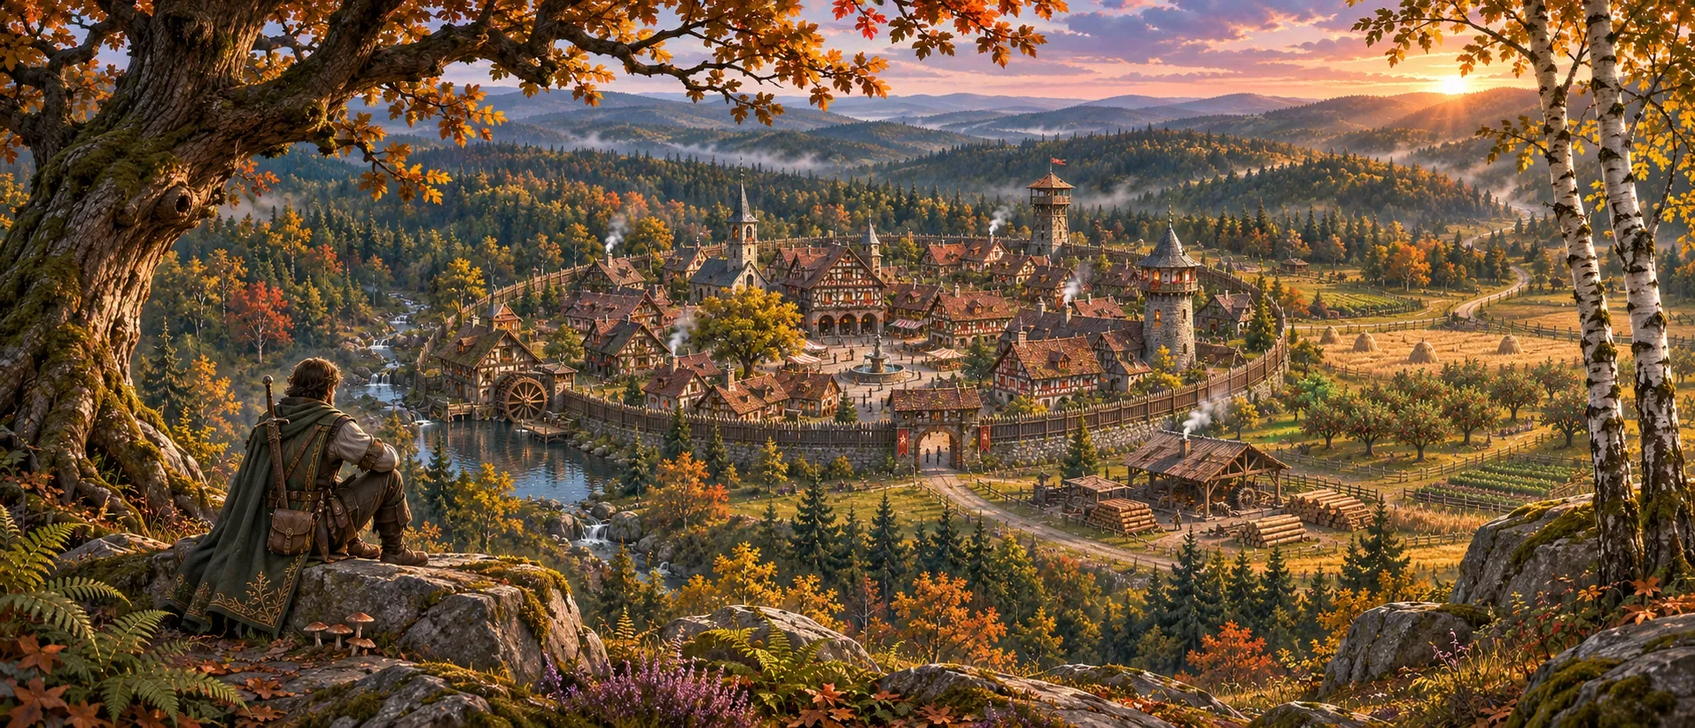
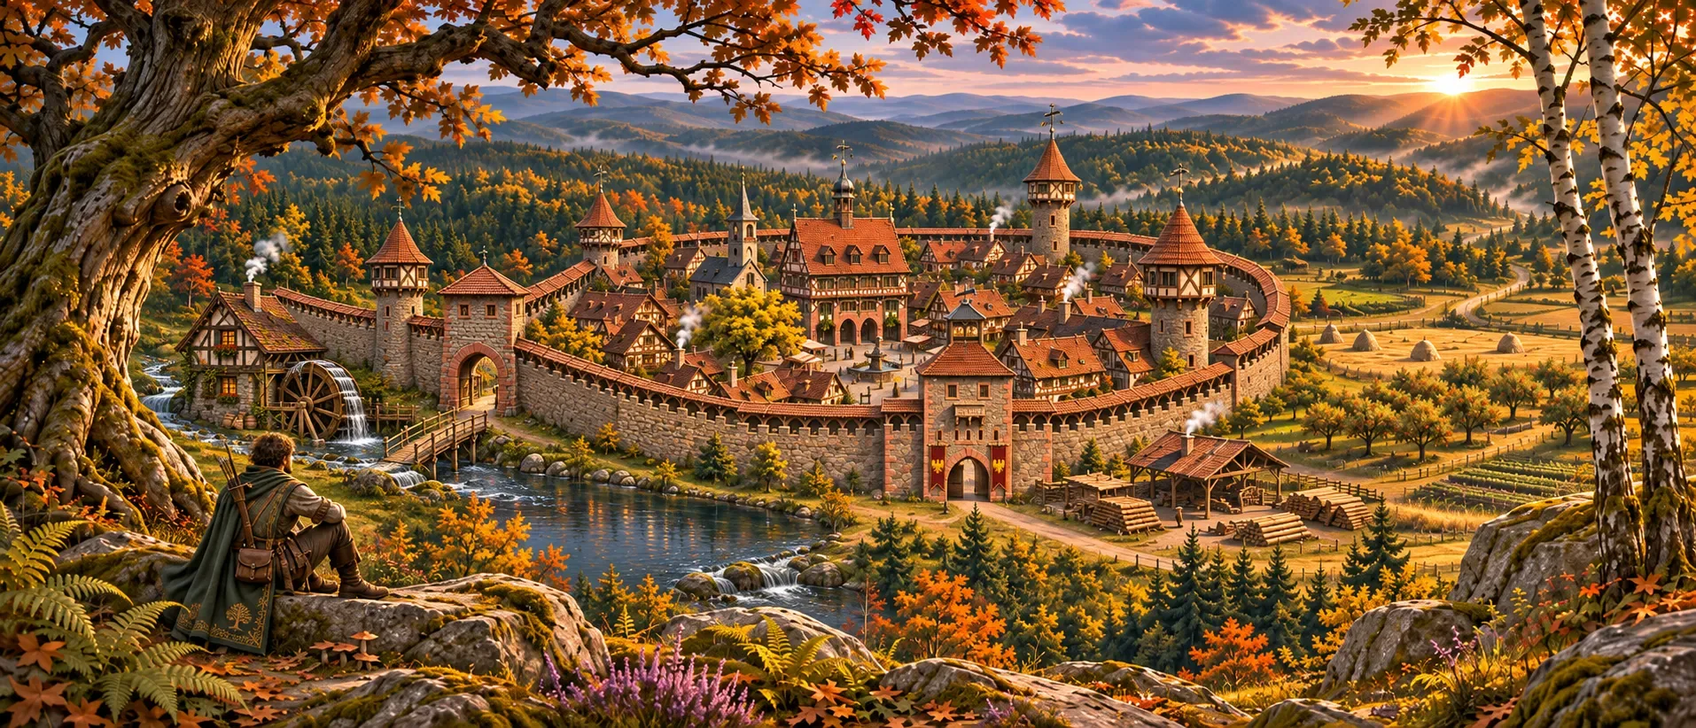
Show Hayn from the forest ridge with the West Gate and the mill

diff --git a/art/views.html b/art/views.html
@@ -41,7 +41,7 @@
 <h2>From above</h2>
 <div class="gallery gallery-2"><figure class="fig "><a class="lb" href="../assets/img/full/ACT-BE-01.webp" data-caption="Aerial from the south-east"><img src="../assets/img/thumb/ACT-BE-01.webp" alt="Aerial from the south-east" width="960" height="542" loading="lazy" decoding="async"></a><figcaption>Aerial from the south-east</figcaption></figure><figure class="fig "><a class="lb" href="../assets/img/full/ACT-BE-02.webp" data-caption="From the north-west, over the forest"><img src="../assets/img/thumb/ACT-BE-02.webp" alt="From the north-west, over the forest" width="960" height="540" loading="lazy" decoding="async"></a><figcaption>From the north-west, over the forest</figcaption></figure></div>
 <h2 style="margin-top:72px">Around the town</h2>
-<div class="gallery gallery-2 gallery-169"><figure class="fig "><a class="lb" href="../assets/img/full/VW-01.webp" data-caption="From the watchtower, looking south"><img src="../assets/img/thumb/VW-01.webp" alt="From the watchtower, looking south" width="960" height="540" loading="lazy" decoding="async"></a><figcaption>From the watchtower, looking south</figcaption></figure><figure class="fig "><a class="lb" href="../assets/img/full/VW-02.webp" data-caption="The square and the town hall"><img src="../assets/img/thumb/VW-02.webp" alt="The square and the town hall" width="960" height="540" loading="lazy" decoding="async"></a><figcaption>The square and the town hall</figcaption></figure><figure class="fig "><a class="lb" href="../assets/img/full/VW-03.webp" data-caption="Through the west postern"><img src="../assets/img/thumb/VW-03.webp" alt="Through the west postern" width="960" height="540" loading="lazy" decoding="async"></a><figcaption>Through the west postern</figcaption></figure><figure class="fig "><a class="lb" href="../assets/img/full/ACT-VW-04.webp" data-caption="The Paladin training yard"><img src="../assets/img/thumb/ACT-VW-04.webp" alt="The Paladin training yard" width="960" height="541" loading="lazy" decoding="async"></a><figcaption>The Paladin training yard</figcaption></figure><figure class="fig "><a class="lb" href="../assets/img/full/ACT-VW-05.webp" data-caption="Hunters&#x27; Lodge and archery range"><img src="../assets/img/thumb/ACT-VW-05.webp" alt="Hunters&#x27; Lodge and archery range" width="960" height="540" loading="lazy" decoding="async"></a><figcaption>Hunters' Lodge and archery range</figcaption></figure><figure class="fig "><a class="lb" href="../assets/img/full/ACT-VW-06.webp" data-caption="Herbalist&#x27;s garden and spring shrine"><img src="../assets/img/thumb/ACT-VW-06.webp" alt="Herbalist&#x27;s garden and spring shrine" width="960" height="540" loading="lazy" decoding="async"></a><figcaption>Herbalist's garden and spring shrine</figcaption></figure><figure class="fig "><a class="lb" href="../assets/img/full/VW-07.webp" data-caption="Elwyn&#x27;s tower courtyard"><img src="../assets/img/thumb/VW-07.webp" alt="Elwyn&#x27;s tower courtyard" width="720" height="960" loading="lazy" decoding="async"></a><figcaption>Elwyn's tower courtyard</figcaption></figure><figure class="fig "><a class="lb" href="../assets/img/full/VW-08.webp" data-caption="The road out of town"><img src="../assets/img/thumb/VW-08.webp" alt="The road out of town" width="960" height="540" loading="lazy" decoding="async"></a><figcaption>The road out of town</figcaption></figure><figure class="fig "><a class="lb" href="../assets/img/full/VW-09.webp" data-caption="The farmstead and fields"><img src="../assets/img/thumb/VW-09.webp" alt="The farmstead and fields" width="960" height="541" loading="lazy" decoding="async"></a><figcaption>The farmstead and fields</figcaption></figure><figure class="fig "><a class="lb" href="../assets/img/full/VW-10.webp" data-caption="From the forest ridge"><img src="../assets/img/thumb/VW-10.webp" alt="From the forest ridge" width="960" height="413" loading="lazy" decoding="async"></a><figcaption>From the forest ridge</figcaption></figure></div>
+<div class="gallery gallery-2 gallery-169"><figure class="fig "><a class="lb" href="../assets/img/full/VW-01.webp" data-caption="From the watchtower, looking south"><img src="../assets/img/thumb/VW-01.webp" alt="From the watchtower, looking south" width="960" height="540" loading="lazy" decoding="async"></a><figcaption>From the watchtower, looking south</figcaption></figure><figure class="fig "><a class="lb" href="../assets/img/full/VW-02.webp" data-caption="The square and the town hall"><img src="../assets/img/thumb/VW-02.webp" alt="The square and the town hall" width="960" height="540" loading="lazy" decoding="async"></a><figcaption>The square and the town hall</figcaption></figure><figure class="fig "><a class="lb" href="../assets/img/full/VW-03.webp" data-caption="Through the west postern"><img src="../assets/img/thumb/VW-03.webp" alt="Through the west postern" width="960" height="540" loading="lazy" decoding="async"></a><figcaption>Through the west postern</figcaption></figure><figure class="fig "><a class="lb" href="../assets/img/full/ACT-VW-04.webp" data-caption="The Paladin training yard"><img src="../assets/img/thumb/ACT-VW-04.webp" alt="The Paladin training yard" width="960" height="541" loading="lazy" decoding="async"></a><figcaption>The Paladin training yard</figcaption></figure><figure class="fig "><a class="lb" href="../assets/img/full/ACT-VW-05.webp" data-caption="Hunters&#x27; Lodge and archery range"><img src="../assets/img/thumb/ACT-VW-05.webp" alt="Hunters&#x27; Lodge and archery range" width="960" height="540" loading="lazy" decoding="async"></a><figcaption>Hunters' Lodge and archery range</figcaption></figure><figure class="fig "><a class="lb" href="../assets/img/full/ACT-VW-06.webp" data-caption="Herbalist&#x27;s garden and spring shrine"><img src="../assets/img/thumb/ACT-VW-06.webp" alt="Herbalist&#x27;s garden and spring shrine" width="960" height="540" loading="lazy" decoding="async"></a><figcaption>Herbalist's garden and spring shrine</figcaption></figure><figure class="fig "><a class="lb" href="../assets/img/full/VW-07.webp" data-caption="Elwyn&#x27;s tower courtyard"><img src="../assets/img/thumb/VW-07.webp" alt="Elwyn&#x27;s tower courtyard" width="720" height="960" loading="lazy" decoding="async"></a><figcaption>Elwyn's tower courtyard</figcaption></figure><figure class="fig "><a class="lb" href="../assets/img/full/VW-08.webp" data-caption="The road out of town"><img src="../assets/img/thumb/VW-08.webp" alt="The road out of town" width="960" height="540" loading="lazy" decoding="async"></a><figcaption>The road out of town</figcaption></figure><figure class="fig "><a class="lb" href="../assets/img/full/VW-09.webp" data-caption="The farmstead and fields"><img src="../assets/img/thumb/VW-09.webp" alt="The farmstead and fields" width="960" height="541" loading="lazy" decoding="async"></a><figcaption>The farmstead and fields</figcaption></figure><figure class="fig "><a class="lb" href="../assets/img/full/VW-10.webp" data-caption="From the forest ridge"><img src="../assets/img/thumb/VW-10.webp" alt="From the forest ridge" width="960" height="412" loading="lazy" decoding="async"></a><figcaption>From the forest ridge</figcaption></figure></div>
 <h2 style="margin-top:72px">Maps</h2>
 <div class="gallery gallery-2"><figure class="fig "><a class="lb" href="../assets/img/full/TD-02.webp" data-caption="Painted map of Hayn"><img src="../assets/img/thumb/TD-02.webp" alt="Painted map of Hayn" width="960" height="808" loading="lazy" decoding="async"></a><figcaption>Painted map of Hayn</figcaption></figure><figure class="fig "><a class="lb" href="../assets/img/full/TD-04.webp" data-caption="Painted map of the Wolfwood"><img src="../assets/img/thumb/TD-04.webp" alt="Painted map of the Wolfwood" width="960" height="960" loading="lazy" decoding="async"></a><figcaption>Painted map of the Wolfwood</figcaption></figure><figure class="fig "><a class="lb" href="../assets/img/full/TD-05.webp" data-caption="Layout grid of Hayn"><img src="../assets/img/thumb/TD-05.webp" alt="Layout grid of Hayn" width="864" height="960" loading="lazy" decoding="async"></a><figcaption>Layout grid of Hayn</figcaption></figure></div></section>
 <div class="wrap"><nav class="pager" aria-label="Page"><a class="prev" href="../art/index.html"><small>Previous</small>Art</a><a class="next" href="../art/interiors.html"><small>Next</small>Interiors</a></nav></div>

diff --git a/de/art/views.html b/de/art/views.html
@@ -41,7 +41,7 @@
 <h2>Von oben</h2>
 <div class="gallery gallery-2"><figure class="fig "><a class="lb" href="../../assets/img/full/ACT-BE-01.webp" data-caption="Luftbild von Südosten"><img src="../../assets/img/thumb/ACT-BE-01.webp" alt="Luftbild von Südosten" width="960" height="542" loading="lazy" decoding="async"></a><figcaption>Luftbild von Südosten</figcaption></figure><figure class="fig "><a class="lb" href="../../assets/img/full/ACT-BE-02.webp" data-caption="Von Nordwesten, über den Wald"><img src="../../assets/img/thumb/ACT-BE-02.webp" alt="Von Nordwesten, über den Wald" width="960" height="540" loading="lazy" decoding="async"></a><figcaption>Von Nordwesten, über den Wald</figcaption></figure></div>
 <h2 style="margin-top:72px">Rund um die Stadt</h2>
-<div class="gallery gallery-2 gallery-169"><figure class="fig "><a class="lb" href="../../assets/img/full/VW-01.webp" data-caption="Vom Wachturm nach Süden"><img src="../../assets/img/thumb/VW-01.webp" alt="Vom Wachturm nach Süden" width="960" height="540" loading="lazy" decoding="async"></a><figcaption>Vom Wachturm nach Süden</figcaption></figure><figure class="fig "><a class="lb" href="../../assets/img/full/VW-02.webp" data-caption="Der Platz und das Rathaus"><img src="../../assets/img/thumb/VW-02.webp" alt="Der Platz und das Rathaus" width="960" height="540" loading="lazy" decoding="async"></a><figcaption>Der Platz und das Rathaus</figcaption></figure><figure class="fig "><a class="lb" href="../../assets/img/full/VW-03.webp" data-caption="Durch die Westpforte"><img src="../../assets/img/thumb/VW-03.webp" alt="Durch die Westpforte" width="960" height="540" loading="lazy" decoding="async"></a><figcaption>Durch die Westpforte</figcaption></figure><figure class="fig "><a class="lb" href="../../assets/img/full/ACT-VW-04.webp" data-caption="Der Paladin-Übungsplatz"><img src="../../assets/img/thumb/ACT-VW-04.webp" alt="Der Paladin-Übungsplatz" width="960" height="541" loading="lazy" decoding="async"></a><figcaption>Der Paladin-Übungsplatz</figcaption></figure><figure class="fig "><a class="lb" href="../../assets/img/full/ACT-VW-05.webp" data-caption="Jägerhütte und Bogenschießplatz"><img src="../../assets/img/thumb/ACT-VW-05.webp" alt="Jägerhütte und Bogenschießplatz" width="960" height="540" loading="lazy" decoding="async"></a><figcaption>Jägerhütte und Bogenschießplatz</figcaption></figure><figure class="fig "><a class="lb" href="../../assets/img/full/ACT-VW-06.webp" data-caption="Kräutergarten und Quellschrein"><img src="../../assets/img/thumb/ACT-VW-06.webp" alt="Kräutergarten und Quellschrein" width="960" height="540" loading="lazy" decoding="async"></a><figcaption>Kräutergarten und Quellschrein</figcaption></figure><figure class="fig "><a class="lb" href="../../assets/img/full/VW-07.webp" data-caption="Der Hof von Elwyns Turm"><img src="../../assets/img/thumb/VW-07.webp" alt="Der Hof von Elwyns Turm" width="720" height="960" loading="lazy" decoding="async"></a><figcaption>Der Hof von Elwyns Turm</figcaption></figure><figure class="fig "><a class="lb" href="../../assets/img/full/VW-08.webp" data-caption="Die Straße aus der Stadt"><img src="../../assets/img/thumb/VW-08.webp" alt="Die Straße aus der Stadt" width="960" height="540" loading="lazy" decoding="async"></a><figcaption>Die Straße aus der Stadt</figcaption></figure><figure class="fig "><a class="lb" href="../../assets/img/full/VW-09.webp" data-caption="Der Bauernhof und die Felder"><img src="../../assets/img/thumb/VW-09.webp" alt="Der Bauernhof und die Felder" width="960" height="541" loading="lazy" decoding="async"></a><figcaption>Der Bauernhof und die Felder</figcaption></figure><figure class="fig "><a class="lb" href="../../assets/img/full/VW-10.webp" data-caption="Vom Waldkamm"><img src="../../assets/img/thumb/VW-10.webp" alt="Vom Waldkamm" width="960" height="413" loading="lazy" decoding="async"></a><figcaption>Vom Waldkamm</figcaption></figure></div>
+<div class="gallery gallery-2 gallery-169"><figure class="fig "><a class="lb" href="../../assets/img/full/VW-01.webp" data-caption="Vom Wachturm nach Süden"><img src="../../assets/img/thumb/VW-01.webp" alt="Vom Wachturm nach Süden" width="960" height="540" loading="lazy" decoding="async"></a><figcaption>Vom Wachturm nach Süden</figcaption></figure><figure class="fig "><a class="lb" href="../../assets/img/full/VW-02.webp" data-caption="Der Platz und das Rathaus"><img src="../../assets/img/thumb/VW-02.webp" alt="Der Platz und das Rathaus" width="960" height="540" loading="lazy" decoding="async"></a><figcaption>Der Platz und das Rathaus</figcaption></figure><figure class="fig "><a class="lb" href="../../assets/img/full/VW-03.webp" data-caption="Durch die Westpforte"><img src="../../assets/img/thumb/VW-03.webp" alt="Durch die Westpforte" width="960" height="540" loading="lazy" decoding="async"></a><figcaption>Durch die Westpforte</figcaption></figure><figure class="fig "><a class="lb" href="../../assets/img/full/ACT-VW-04.webp" data-caption="Der Paladin-Übungsplatz"><img src="../../assets/img/thumb/ACT-VW-04.webp" alt="Der Paladin-Übungsplatz" width="960" height="541" loading="lazy" decoding="async"></a><figcaption>Der Paladin-Übungsplatz</figcaption></figure><figure class="fig "><a class="lb" href="../../assets/img/full/ACT-VW-05.webp" data-caption="Jägerhütte und Bogenschießplatz"><img src="../../assets/img/thumb/ACT-VW-05.webp" alt="Jägerhütte und Bogenschießplatz" width="960" height="540" loading="lazy" decoding="async"></a><figcaption>Jägerhütte und Bogenschießplatz</figcaption></figure><figure class="fig "><a class="lb" href="../../assets/img/full/ACT-VW-06.webp" data-caption="Kräutergarten und Quellschrein"><img src="../../assets/img/thumb/ACT-VW-06.webp" alt="Kräutergarten und Quellschrein" width="960" height="540" loading="lazy" decoding="async"></a><figcaption>Kräutergarten und Quellschrein</figcaption></figure><figure class="fig "><a class="lb" href="../../assets/img/full/VW-07.webp" data-caption="Der Hof von Elwyns Turm"><img src="../../assets/img/thumb/VW-07.webp" alt="Der Hof von Elwyns Turm" width="720" height="960" loading="lazy" decoding="async"></a><figcaption>Der Hof von Elwyns Turm</figcaption></figure><figure class="fig "><a class="lb" href="../../assets/img/full/VW-08.webp" data-caption="Die Straße aus der Stadt"><img src="../../assets/img/thumb/VW-08.webp" alt="Die Straße aus der Stadt" width="960" height="540" loading="lazy" decoding="async"></a><figcaption>Die Straße aus der Stadt</figcaption></figure><figure class="fig "><a class="lb" href="../../assets/img/full/VW-09.webp" data-caption="Der Bauernhof und die Felder"><img src="../../assets/img/thumb/VW-09.webp" alt="Der Bauernhof und die Felder" width="960" height="541" loading="lazy" decoding="async"></a><figcaption>Der Bauernhof und die Felder</figcaption></figure><figure class="fig "><a class="lb" href="../../assets/img/full/VW-10.webp" data-caption="Vom Waldkamm"><img src="../../assets/img/thumb/VW-10.webp" alt="Vom Waldkamm" width="960" height="412" loading="lazy" decoding="async"></a><figcaption>Vom Waldkamm</figcaption></figure></div>
 <h2 style="margin-top:72px">Karten</h2>
 <div class="gallery gallery-2"><figure class="fig "><a class="lb" href="../../assets/img/full/TD-02.webp" data-caption="Gemalte Karte von Hayn"><img src="../../assets/img/thumb/TD-02.webp" alt="Gemalte Karte von Hayn" width="960" height="808" loading="lazy" decoding="async"></a><figcaption>Gemalte Karte von Hayn</figcaption></figure><figure class="fig "><a class="lb" href="../../assets/img/full/TD-04.webp" data-caption="Gemalte Karte des Wolfsforsts"><img src="../../assets/img/thumb/TD-04.webp" alt="Gemalte Karte des Wolfsforsts" width="960" height="960" loading="lazy" decoding="async"></a><figcaption>Gemalte Karte des Wolfsforsts</figcaption></figure><figure class="fig "><a class="lb" href="../../assets/img/full/TD-05.webp" data-caption="Lageplan von Hayn mit Raster"><img src="../../assets/img/thumb/TD-05.webp" alt="Lageplan von Hayn mit Raster" width="864" height="960" loading="lazy" decoding="async"></a><figcaption>Lageplan von Hayn mit Raster</figcaption></figure></div></section>
 <div class="wrap"><nav class="pager" aria-label="Page"><a class="prev" href="../../de/art/index.html"><small>Zurück</small>Kunst</a><a class="next" href="../../de/art/interiors.html"><small>Weiter</small>Innenräume</a></nav></div>

diff --git a/de/world/wolfwood.html b/de/world/wolfwood.html
@@ -43,7 +43,7 @@
 <h2 style="margin-top:72px">Zone für Zone</h2>
 <div class="table-wrap"><table class="data-table "><thead><tr><th scope="col">Zone</th><th scope="col">Name</th><th scope="col">Von der Stadt aus</th><th scope="col">Was dort ist</th></tr></thead><tbody><tr><th scope="row">F1</th><td>Waldrand & Wiese</td><td>0–100 m</td><td>Birken, Haseln, Brombeeren und hohes Gras. Kräuter zum Sammeln, Rehe und Hasen.</td></tr><tr><th scope="row">F2</th><td>Holzfällersaum</td><td>100–250 m</td><td>Baumstümpfe, Holzstapel und ein Holzfällerunterstand. Die ersten Wölfe.</td></tr><tr><th scope="row">F3</th><td>Buchen-Eichen-Wald</td><td>250–500 m</td><td>Silberne Buchenstämme wie Säulen, alte Eichen, Lichtstrahlen. Wolfsrudel und Wildschweine.</td></tr><tr><th scope="row">F4</th><td>Bachschlucht</td><td>Quer durch F3</td><td>Ein felsiger Bach, ein kleiner Wasserfall und eine Brücke aus einem umgestürzten Baum.</td></tr><tr><th scope="row">F5</th><td>Die alte Lichtung</td><td>~400 m nördlich</td><td>Ein Ring stehender Steine, eine uralte Eiche, leuchtende Funken in der Nacht.</td></tr><tr><th scope="row">F6</th><td>Fichten-Tannen-Tiefwald</td><td>500–900 m</td><td>Dunkle Fichten, Nadelboden, Totholz und wenig Licht. Dunkle Wölfe.</td></tr><tr><th scope="row">F7</th><td>Der Wolfsbau</td><td>~700 m</td><td>Ein Felsvorsprung mit Höhleneingang, Knochen und abgenagten Geweihen. Der Alpha.</td></tr><tr><th scope="row">F8</th><td>Verfallener Wachturm</td><td>~600 m nordwestlich</td><td>Ein eingestürzter, überwucherter Steinturm. Eine Aussicht und eine verlorene Tasche.</td></tr><tr><th scope="row">F9</th><td>Hochsitz & Lager</td><td>~350 m</td><td>Ein Hochsitz, ein verlassenes Lagerfeuer, ein Unterstand.</td></tr></tbody></table></div>
 <h2 style="margin-top:72px">Bilder aus dem Wald</h2>
-<div class="gallery gallery-2"><figure class="fig "><a class="lb" href="../../assets/img/full/KA-05.webp" data-caption="Wölfe am Waldrand in der Dämmerung"><img src="../../assets/img/thumb/KA-05.webp" alt="Wölfe am Waldrand in der Dämmerung" width="960" height="541" loading="lazy" decoding="async"></a><figcaption>Wölfe am Waldrand in der Dämmerung</figcaption></figure><figure class="fig "><a class="lb" href="../../assets/img/full/KA-07.webp" data-caption="Der Wolfsbau"><img src="../../assets/img/thumb/KA-07.webp" alt="Der Wolfsbau" width="960" height="540" loading="lazy" decoding="async"></a><figcaption>Der Wolfsbau</figcaption></figure><figure class="fig "><a class="lb" href="../../assets/img/full/ACT-BE-02.webp" data-caption="Von Nordwesten über den Wald zur Stadt"><img src="../../assets/img/thumb/ACT-BE-02.webp" alt="Von Nordwesten über den Wald zur Stadt" width="960" height="540" loading="lazy" decoding="async"></a><figcaption>Von Nordwesten über den Wald zur Stadt</figcaption></figure><figure class="fig "><a class="lb" href="../../assets/img/full/VW-10.webp" data-caption="Vom Waldkamm aus"><img src="../../assets/img/thumb/VW-10.webp" alt="Vom Waldkamm aus" width="960" height="413" loading="lazy" decoding="async"></a><figcaption>Vom Waldkamm aus</figcaption></figure></div></section>
+<div class="gallery gallery-2"><figure class="fig "><a class="lb" href="../../assets/img/full/KA-05.webp" data-caption="Wölfe am Waldrand in der Dämmerung"><img src="../../assets/img/thumb/KA-05.webp" alt="Wölfe am Waldrand in der Dämmerung" width="960" height="541" loading="lazy" decoding="async"></a><figcaption>Wölfe am Waldrand in der Dämmerung</figcaption></figure><figure class="fig "><a class="lb" href="../../assets/img/full/KA-07.webp" data-caption="Der Wolfsbau"><img src="../../assets/img/thumb/KA-07.webp" alt="Der Wolfsbau" width="960" height="540" loading="lazy" decoding="async"></a><figcaption>Der Wolfsbau</figcaption></figure><figure class="fig "><a class="lb" href="../../assets/img/full/ACT-BE-02.webp" data-caption="Von Nordwesten über den Wald zur Stadt"><img src="../../assets/img/thumb/ACT-BE-02.webp" alt="Von Nordwesten über den Wald zur Stadt" width="960" height="540" loading="lazy" decoding="async"></a><figcaption>Von Nordwesten über den Wald zur Stadt</figcaption></figure><figure class="fig "><a class="lb" href="../../assets/img/full/VW-10.webp" data-caption="Vom Waldkamm aus"><img src="../../assets/img/thumb/VW-10.webp" alt="Vom Waldkamm aus" width="960" height="412" loading="lazy" decoding="async"></a><figcaption>Vom Waldkamm aus</figcaption></figure></div></section>
 <div class="wrap"><nav class="pager" aria-label="Page"><a class="prev" href="../../de/world/hayn.html"><small>Zurück</small>Hayn</a><a class="next" href="../../de/world/road.html"><small>Weiter</small>Straße nach Frankfurt</a></nav></div>
 </main>
 

diff --git a/world/wolfwood.html b/world/wolfwood.html
@@ -43,7 +43,7 @@
 <h2 style="margin-top:72px">Zone by zone</h2>
 <div class="table-wrap"><table class="data-table "><thead><tr><th scope="col">Zone</th><th scope="col">Name</th><th scope="col">From the town</th><th scope="col">What is there</th></tr></thead><tbody><tr><th scope="row">F1</th><td>Forest edge & meadow</td><td>0–100 m</td><td>Birch, hazel, brambles and tall grass. Herbs to gather, deer and rabbits.</td></tr><tr><th scope="row">F2</th><td>Woodcutters' fringe</td><td>100–250 m</td><td>Stumps, log piles and a woodcutter's shelter. The first wolves.</td></tr><tr><th scope="row">F3</th><td>Beech-oak forest</td><td>250–500 m</td><td>Silver beech trunks like pillars, old oaks, light shafts. Wolf packs and boar.</td></tr><tr><th scope="row">F4</th><td>Stream gorge</td><td>Crossing F3</td><td>A rocky stream, a small waterfall and a fallen-tree bridge.</td></tr><tr><th scope="row">F5</th><td>The old glade</td><td>~400 m north</td><td>A ring of standing stones, an ancient oak, glowing motes at night.</td></tr><tr><th scope="row">F6</th><td>Spruce-fir deep wood</td><td>500–900 m</td><td>Dark spruce, needle floor, deadfall and little light. Dark wolves.</td></tr><tr><th scope="row">F7</th><td>The wolf den</td><td>~700 m</td><td>A rock outcrop with a cave mouth, bones and gnawed antlers. The Alpha.</td></tr><tr><th scope="row">F8</th><td>Ruined watchtower</td><td>~600 m north-west</td><td>A collapsed stone tower, overgrown. A view, and a lost satchel.</td></tr><tr><th scope="row">F9</th><td>Hunter's blind & camp</td><td>~350 m</td><td>A raised hunting stand, an abandoned campfire, a lean-to.</td></tr></tbody></table></div>
 <h2 style="margin-top:72px">Pictures from the forest</h2>
-<div class="gallery gallery-2"><figure class="fig "><a class="lb" href="../assets/img/full/KA-05.webp" data-caption="Wolves at the forest edge, at dusk"><img src="../assets/img/thumb/KA-05.webp" alt="Wolves at the forest edge, at dusk" width="960" height="541" loading="lazy" decoding="async"></a><figcaption>Wolves at the forest edge, at dusk</figcaption></figure><figure class="fig "><a class="lb" href="../assets/img/full/KA-07.webp" data-caption="The wolf den"><img src="../assets/img/thumb/KA-07.webp" alt="The wolf den" width="960" height="540" loading="lazy" decoding="async"></a><figcaption>The wolf den</figcaption></figure><figure class="fig "><a class="lb" href="../assets/img/full/ACT-BE-02.webp" data-caption="From the north-west, over the forest to the town"><img src="../assets/img/thumb/ACT-BE-02.webp" alt="From the north-west, over the forest to the town" width="960" height="540" loading="lazy" decoding="async"></a><figcaption>From the north-west, over the forest to the town</figcaption></figure><figure class="fig "><a class="lb" href="../assets/img/full/VW-10.webp" data-caption="From the forest ridge"><img src="../assets/img/thumb/VW-10.webp" alt="From the forest ridge" width="960" height="413" loading="lazy" decoding="async"></a><figcaption>From the forest ridge</figcaption></figure></div></section>
+<div class="gallery gallery-2"><figure class="fig "><a class="lb" href="../assets/img/full/KA-05.webp" data-caption="Wolves at the forest edge, at dusk"><img src="../assets/img/thumb/KA-05.webp" alt="Wolves at the forest edge, at dusk" width="960" height="541" loading="lazy" decoding="async"></a><figcaption>Wolves at the forest edge, at dusk</figcaption></figure><figure class="fig "><a class="lb" href="../assets/img/full/KA-07.webp" data-caption="The wolf den"><img src="../assets/img/thumb/KA-07.webp" alt="The wolf den" width="960" height="540" loading="lazy" decoding="async"></a><figcaption>The wolf den</figcaption></figure><figure class="fig "><a class="lb" href="../assets/img/full/ACT-BE-02.webp" data-caption="From the north-west, over the forest to the town"><img src="../assets/img/thumb/ACT-BE-02.webp" alt="From the north-west, over the forest to the town" width="960" height="540" loading="lazy" decoding="async"></a><figcaption>From the north-west, over the forest to the town</figcaption></figure><figure class="fig "><a class="lb" href="../assets/img/full/VW-10.webp" data-caption="From the forest ridge"><img src="../assets/img/thumb/VW-10.webp" alt="From the forest ridge" width="960" height="412" loading="lazy" decoding="async"></a><figcaption>From the forest ridge</figcaption></figure></div></section>
 <div class="wrap"><nav class="pager" aria-label="Page"><a class="prev" href="../world/hayn.html"><small>Previous</small>Hayn</a><a class="next" href="../world/road.html"><small>Next</small>Road to Frankfurt</a></nav></div>
 </main>
 
